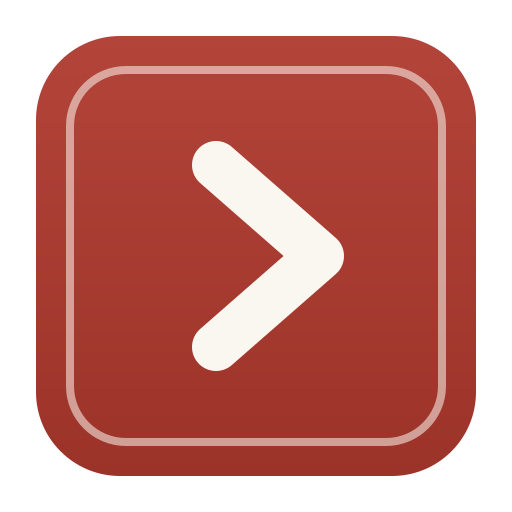
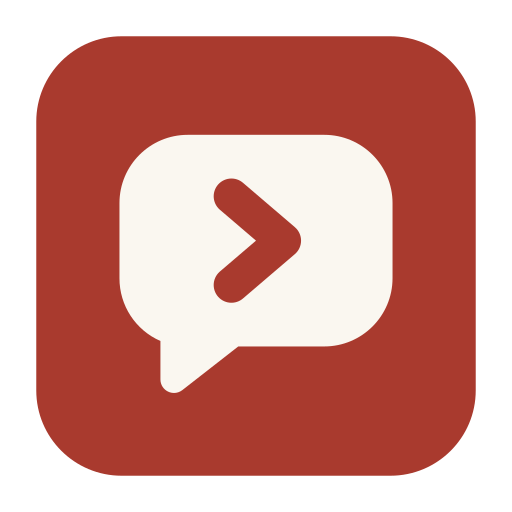
Update 40 files

diff --git a/vitube-web/src/app/install/page.tsx b/vitube-web/src/app/install/page.tsx
@@ -66,14 +66,14 @@ export default function InstallPage() {
         {/* eslint-disable-next-line @next/next/no-img-element */}
         <img src={withBase('/icons/icon-192.png')} alt="" className="h-16 w-16" />
         <div>
-          <h1 className="text-2xl font-bold">Cài vitube</h1>
+          <h1 className="text-2xl font-bold">Cài xemchua</h1>
           <p className="text-sm text-yt-sub">Xem video không quảng cáo, mở như một ứng dụng.</p>
         </div>
       </div>
 
       {standalone ? (
         <Card>
-          <p className="font-medium">Bạn đang dùng vitube dạng ứng dụng rồi 🎉</p>
+          <p className="font-medium">Bạn đang dùng xemchua dạng ứng dụng rồi 🎉</p>
           <Link href="/" className="mt-4 inline-block rounded-full bg-yt-text px-5 py-2.5 text-sm font-medium text-yt-bg">
             Về trang chủ
           </Link>
@@ -84,7 +84,7 @@ export default function InstallPage() {
             <Card tone="warn">
               <p className="font-medium">Địa chỉ này chưa có HTTPS</p>
               <p className="mt-1 text-sm">
-                Điện thoại chỉ cài được vitube dạng ứng dụng từ một địa chỉ <code>https://</code>. Mở bằng địa
+                Điện thoại chỉ cài được xemchua dạng ứng dụng từ một địa chỉ <code>https://</code>. Mở bằng địa
                 chỉ hiện tại thì chỉ tạo được dấu trang. Xem hướng dẫn dựng HTTPS trong thư mục{' '}
                 <code>vitube_PWA</code>.
               </p>
@@ -118,9 +118,9 @@ export default function InstallPage() {
                     <Steps
                       items={[
                         'Thoát ra màn hình chính, mở app Cài đặt (bánh răng ⚙).',
-                        'Bấm dòng "Đã tải về hồ sơ" ngay dưới tên tài khoản Apple ở trên cùng. (Không thấy thì vào Cài đặt chung → VPN & Quản lý thiết bị → vitube.)',
+                        'Bấm dòng "Đã tải về hồ sơ" ngay dưới tên tài khoản Apple ở trên cùng. (Không thấy thì vào Cài đặt chung → VPN & Quản lý thiết bị → xemchua.)',
                         'Bấm Cài đặt ở góc trên phải → nhập mật mã → bấm Cài đặt lần nữa → Xong.',
-                        'Biểu tượng vitube xuất hiện trên màn hình chính.',
+                        'Biểu tượng xemchua xuất hiện trên màn hình chính.',
                       ]}
                     />
                     <p className="mt-3 text-xs text-yt-sub">
@@ -154,7 +154,7 @@ export default function InstallPage() {
                         'Bấm "Tải file cài đặt", rồi chọn Cho phép.',
                         'Mở app Cài đặt — ngay trên cùng có dòng "Đã tải về hồ sơ", bấm vào.',
                         'Bấm Cài đặt (góc trên phải), nhập mật mã máy, bấm Cài đặt thêm lần nữa.',
-                        'Xong — biểu tượng vitube nằm trên màn hình chính.',
+                        'Xong — biểu tượng xemchua nằm trên màn hình chính.',
                       ]}
                     />
                   </>
@@ -181,10 +181,10 @@ export default function InstallPage() {
           {platform === 'android' && (
             <Card>
               {done ? (
-                <p className="font-medium">Đã cài! Mở vitube từ màn hình chính hoặc danh sách ứng dụng.</p>
+                <p className="font-medium">Đã cài! Mở xemchua từ màn hình chính hoặc danh sách ứng dụng.</p>
               ) : canPrompt ? (
                 <button onClick={install} className="w-full rounded-full bg-yt-red px-5 py-3 font-medium text-white">
-                  Cài vitube
+                  Cài xemchua
                 </button>
               ) : (
                 <>
@@ -222,7 +222,7 @@ export default function InstallPage() {
               <p className="mt-2 break-all rounded-lg bg-yt-chip px-3 py-2 font-mono text-sm">{origin}/install</p>
               {canPrompt && (
                 <button onClick={install} className="mt-4 rounded-full bg-yt-chip px-5 py-2.5 text-sm font-medium">
-                  Cài vitube trên máy tính này
+                  Cài xemchua trên máy tính này
                 </button>
               )}
             </Card>

diff --git a/vitube-web/src/components/Logo.tsx b/vitube-web/src/components/Logo.tsx
@@ -1,31 +1,42 @@
 import Link from 'next/link';
 
 /**
- * Dấu hiệu nhận diện của vitube — kiểu ấn triện.
+ * Dấu hiệu nhận diện của xemchua — "xem chưa?" như một câu rủ nhau trong tin nhắn.
  *
- * Khối vuông màu son có khung mảnh bên trong như con dấu đóng trên giấy, giữa là
- * mũi tên phát ghép từ hai nét (không phải tam giác đặc — tránh na ná nhãn hiệu
- * YouTube). Màu phẳng, không chuyển sắc, khớp với icon ứng dụng
- * (`vitube-desktop/build/icon.svg`).
+ * Bong bóng chat màu son, đuôi chĩa xuống bên trái, giữa là mũi tên phát ghép từ
+ * hai nét (không phải tam giác đặc — tránh na ná nhãn hiệu YouTube). Màu phẳng,
+ * khớp với icon ứng dụng (`src/app/icon.svg`, `vitube_PWA/icons/make-icons.mjs`).
+ *
+ * Chữ: "xem" màu chữ thường, "chưa" màu son — đọc liền vẫn ra tên, tách ra thì
+ * thành câu hỏi.
  */
+export const BUBBLE =
+  'M7 2.5h10a5 5 0 0 1 5 5V13a5 5 0 0 1-5 5h-6.3l-4.1 3.2c-.66.5-1.6.04-1.6-.79V17.6A5 5 0 0 1 2 13V7.5a5 5 0 0 1 5-5Z';
+export const CHEVRON = 'M10.2 7 L14 10.25 L10.2 13.5';
+
 export default function Logo() {
   return (
-    <Link href="/" className="group flex select-none items-center gap-2" aria-label="vitube trang chủ">
-      <span className="relative grid h-7 w-7 place-items-center rounded-[6px] bg-yt-red transition-transform group-hover:scale-105">
-        <span className="pointer-events-none absolute inset-[3px] rounded-[3px] border border-yt-bg/45" />
-        <svg viewBox="0 0 24 24" className="relative h-4 w-4" fill="none" aria-hidden>
-          <path
-            d="M9.5 6.5 L15.5 12 L9.5 17.5"
-            stroke="rgb(var(--yt-bg))"
-            strokeWidth="2.6"
-            strokeLinecap="round"
-            strokeLinejoin="round"
-          />
-        </svg>
-      </span>
+    <Link href="/" className="group flex select-none items-center gap-1.5" aria-label="xemchua trang chủ">
+      <svg
+        viewBox="0 0 24 24"
+        className="h-8 w-8 transition-transform duration-200 group-hover:-rotate-6 group-hover:scale-105"
+        aria-hidden
+      >
+        <path d={BUBBLE} fill="rgb(var(--yt-red))" />
+        <path
+          d={CHEVRON}
+          fill="none"
+          stroke="rgb(var(--yt-bg))"
+          strokeWidth="2.4"
+          strokeLinecap="round"
+          strokeLinejoin="round"
+        />
+      </svg>
 
-      <span className="grad-text text-[20px] font-semibold tracking-[-0.02em]">vitube</span>
-      <span className="-mt-2 text-[10px] text-yt-sub">VN</span>
+      <span className="text-[21px] font-bold leading-none tracking-[-0.03em]">
+        <span className="grad-text">xem</span>
+        <span className="text-yt-red">chưa</span>
+      </span>
     </Link>
   );
 }

diff --git a/vitube-web/src/app/api/pwa/mobileconfig/route.ts b/vitube-web/src/app/api/pwa/mobileconfig/route.ts
@@ -82,15 +82,15 @@ export async function GET(req: NextRequest) {
 ${icon ? `      <key>Icon</key>\n      <data>${icon}</data>\n` : ''}      <key>IsRemovable</key>
       <true/>
       <key>Label</key>
-      <string>vitube</string>
+      <string>xemchua</string>
       <key>Precomposed</key>
       <true/>
       <key>URL</key>
       <string>${esc(origin)}/?source=webclip</string>
       <key>PayloadDescription</key>
-      <string>Biểu tượng vitube trên màn hình chính</string>
+      <string>Biểu tượng xemchua trên màn hình chính</string>
       <key>PayloadDisplayName</key>
-      <string>vitube</string>
+      <string>xemchua</string>
       <key>PayloadIdentifier</key>
       <string>app.vitube.webclip.${esc(id)}</string>
       <key>PayloadType</key>
@@ -102,13 +102,13 @@ ${icon ? `      <key>Icon</key>\n      <data>${icon}</data>\n` : ''}      <key>I
     </dict>
   </array>
   <key>PayloadDescription</key>
-  <string>Thêm vitube vào màn hình chính. Hồ sơ này chỉ chứa một biểu tượng trỏ tới ${esc(origin)} — không cài phần mềm, không đổi cài đặt nào khác của máy. Gỡ bất cứ lúc nào trong Cài đặt → Cài đặt chung → VPN &amp; Quản lý thiết bị.</string>
+  <string>Thêm xemchua vào màn hình chính. Hồ sơ này chỉ chứa một biểu tượng trỏ tới ${esc(origin)} — không cài phần mềm, không đổi cài đặt nào khác của máy. Gỡ bất cứ lúc nào trong Cài đặt → Cài đặt chung → VPN &amp; Quản lý thiết bị.</string>
   <key>PayloadDisplayName</key>
-  <string>vitube</string>
+  <string>xemchua</string>
   <key>PayloadIdentifier</key>
   <string>app.vitube.profile.${esc(id)}</string>
   <key>PayloadOrganization</key>
-  <string>vitube</string>
+  <string>xemchua</string>
   <key>PayloadRemovalDisallowed</key>
   <false/>
   <key>PayloadType</key>

diff --git a/vitube-web/src/components/SyncServer.tsx b/vitube-web/src/components/SyncServer.tsx
@@ -62,10 +62,10 @@ export default function SyncServer() {
     <div className="space-y-3 px-4 py-4">
       {IS_STATIC ? (
         <div>
-          <p className="text-sm font-medium">Máy chủ vitube</p>
+          <p className="text-sm font-medium">Máy chủ xemchua</p>
           <p className="mt-1 text-xs leading-5 text-yt-sub">
-            Đây là bản giao diện trên GitHub Pages — không có server riêng. Điền địa chỉ HTTPS
-            của một server vitube đang chạy (máy nhà qua Tailscale Funnel / Cloudflare Tunnel,
+            Đây là bản giao diện web (GitHub/Cloudflare Pages) — không có server riêng. Điền địa chỉ HTTPS
+            của một server xemchua đang chạy (máy nhà qua Tailscale Funnel / Cloudflare Tunnel,
             hoặc VPS). Mọi thứ — feed, tìm kiếm, video, tài khoản — sẽ lấy từ server đó. Server
             phải đặt <code>VITUBE_ALLOW_ORIGINS</code> chứa địa chỉ trang này.
           </p>
@@ -75,7 +75,7 @@ export default function SyncServer() {
         <p className="text-sm font-medium">Máy chủ đồng bộ</p>
         <p className="mt-1 text-xs leading-5 text-yt-sub">
           Bỏ trống thì tài khoản và thư viện nằm trên máy này. Điền địa chỉ một server
-          vitube thì mọi máy trỏ vào đó dùng chung dữ liệu — chỉ cần đăng nhập, không
+          xemchua thì mọi máy trỏ vào đó dùng chung dữ liệu — chỉ cần đăng nhập, không
           phải cấu hình database trên từng máy. Video vẫn do máy này tự lấy nên không
           tốn băng thông của server.
         </p>

diff --git a/vitube-web/src/lib/ytdlp.ts b/vitube-web/src/lib/ytdlp.ts
@@ -182,9 +182,9 @@ export function explainYtdlpError(raw: string): string {
   */
   if (/\[biliintl\]/.test(t)) {
     if (/registered users|log ?in|sign ?in/.test(t))
-      return 'BILI_LOGIN Tập này chỉ xem được khi đã đăng nhập Bilibili. Cấu hình cookie một lần là xem được — không cần nhập mật khẩu vào vitube.';
+      return 'BILI_LOGIN Tập này chỉ xem được khi đã đăng nhập Bilibili. Cấu hình cookie một lần là xem được — không cần nhập mật khẩu vào xemchua.';
     if (/premium|vip|purchase|paid/.test(t))
-      return 'Tập này chỉ dành cho thành viên trả phí của Bilibili. vitube không mở khoá nội dung trả phí.';
+      return 'Tập này chỉ dành cho thành viên trả phí của Bilibili. xemchua không mở khoá nội dung trả phí.';
     if (/region|area|country|geo/.test(t))
       return 'Tập này bị Bilibili giới hạn theo khu vực, không xem được từ vị trí của bạn.';
     if (/timed out|timeout/.test(t))

diff --git a/vitube-web/src/app/layout.tsx b/vitube-web/src/app/layout.tsx
@@ -8,7 +8,7 @@ import { IS_STATIC, withBase } from '@/lib/base-path';
 import ServerBanner from '@/components/ServerBanner';
 
 export const metadata: Metadata = {
-  title: 'vitube — xem video không quảng cáo',
+  title: 'xemchua — xem video không quảng cáo',
   description: 'Trình xem YouTube tối giản, không quảng cáo.',
   manifest: withBase('/manifest.webmanifest'),
   /*
@@ -18,7 +18,7 @@ export const metadata: Metadata = {
     statusBarStyle 'default' (không phải 'black-translucent'): nội dung nằm DƯỚI thanh
     trạng thái, tự né tai thỏ — khỏi phải sửa từng thanh cố định theo safe-area.
   */
-  appleWebApp: { capable: true, title: 'vitube', statusBarStyle: 'default' },
+  appleWebApp: { capable: true, title: 'xemchua', statusBarStyle: 'default' },
   icons: {
     icon: [{ url: withBase('/icons/icon-192.png'), sizes: '192x192', type: 'image/png' }],
     apple: [{ url: withBase('/icons/apple-touch-icon.png'), sizes: '180x180' }],

diff --git a/vitube-desktop/main.js b/vitube-desktop/main.js
@@ -212,7 +212,7 @@ async function startServer() {
   serverProcess.stderr.on('data', (d) => process.stderr.write(`[server] ${d}`));
   serverProcess.on('exit', (code) => {
     if (code !== 0 && !app.isQuiting) {
-      dialog.showErrorBox('vitube', `Server dừng đột ngột (mã ${code}).`);
+      dialog.showErrorBox('xemchua', `Server dừng đột ngột (mã ${code}).`);
     }
   });
 
@@ -344,7 +344,7 @@ function buildJumpList(payload) {
       name,
       // Windows cắt bớt nếu quá dài, giữ 6 mục cho gọn mắt
       items: list.slice(0, 6).map((v) =>
-        task(v.title, v.channel || 'vitube', `/watch?v=${v.id}`)
+        task(v.title, v.channel || 'xemchua', `/watch?v=${v.id}`)
       ),
     });
   };
@@ -483,7 +483,7 @@ function createWindow() {
 function buildMenu() {
   const template = [
     {
-      label: 'vitube',
+      label: 'xemchua',
       submenu: [
         {
           label: 'Trang chủ',

diff --git a/vitube-web/public/offline.html b/vitube-web/public/offline.html
@@ -3,7 +3,7 @@
 <head>
 <meta charset="utf-8">
 <meta name="viewport" content="width=device-width, initial-scale=1">
-<title>vitube — mất kết nối</title>
+<title>xemchua — mất kết nối</title>
 <style>
   :root { color-scheme: light dark; }
   body { margin: 0; min-height: 100vh; display: grid; place-items: center; font-family: Roboto, Arial, system-ui, sans-serif;
@@ -18,8 +18,8 @@
 <body>
   <main>
     <img src="/icons/icon-192.png" alt="">
-    <h1>Không kết nối được tới vitube</h1>
-    <p>Điện thoại đang mất mạng, hoặc máy chủ vitube đang tắt. Kiểm tra lại rồi thử lần nữa.</p>
+    <h1>Không kết nối được tới xemchua</h1>
+    <p>Điện thoại đang mất mạng, hoặc máy chủ xemchua đang tắt. Kiểm tra lại rồi thử lần nữa.</p>
     <button onclick="location.reload()">Thử lại</button>
   </main>
 </body>

diff --git a/vitube-web/src/components/ServerBanner.tsx b/vitube-web/src/components/ServerBanner.tsx
@@ -32,9 +32,9 @@ export default function ServerBanner() {
 
   return (
     <div className="fixed inset-x-0 bottom-4 z-[100] mx-auto w-[min(92vw,560px)] rounded-xl border border-yt-border bg-yt-bg2 p-4 text-sm shadow-lg">
-      <p className="font-medium">Chưa kết nối máy chủ vitube</p>
+      <p className="font-medium">Chưa kết nối máy chủ xemchua</p>
       <p className="mt-1 text-xs leading-5 text-yt-sub">
-        Bản trên GitHub Pages chỉ có giao diện. Video, feed và tìm kiếm cần một server vitube
+        Bản web chỉ có giao diện. Video, feed và tìm kiếm cần một server xemchua
         đang chạy (máy nhà qua Tailscale Funnel / Cloudflare Tunnel, hoặc VPS).
       </p>
       <Link

diff --git a/vitube-web/src/app/debug/pip/page.tsx b/vitube-web/src/app/debug/pip/page.tsx
@@ -82,7 +82,7 @@ export default function PipDebugPage() {
       ctx.fillStyle = '#fff';
       ctx.font = 'bold 64px system-ui, sans-serif';
       ctx.textAlign = 'center';
-      ctx.fillText('vitube', c.width / 2, c.height / 2 - 10);
+      ctx.fillText('xemchua', c.width / 2, c.height / 2 - 10);
       ctx.font = '36px ui-monospace, monospace';
       ctx.fillText(new Date().toLocaleTimeString(), c.width / 2, c.height / 2 + 50);
       raf = requestAnimationFrame(draw);

diff --git a/vitube-web/src/app/manifest.ts b/vitube-web/src/app/manifest.ts
@@ -14,8 +14,8 @@ export const dynamic = 'force-static';
 export default function manifest(): MetadataRoute.Manifest {
   return {
     id: withBase('/'),
-    name: 'vitube — xem video không quảng cáo',
-    short_name: 'vitube',
+    name: 'xemchua — xem video không quảng cáo',
+    short_name: 'xemchua',
     description: 'Trình xem YouTube và Bilibili tối giản, không quảng cáo.',
     lang: 'vi',
     start_url: withBase('/?source=pwa'),

diff --git a/vitube-web/src/components/Sidebar.tsx b/vitube-web/src/components/Sidebar.tsx
@@ -137,7 +137,7 @@ export default function Sidebar({ open, mini }: { open: boolean; mini: boolean }
         />
         <hr className="my-3 border-yt-border" />
         <p className="px-3 pb-3 pt-1 text-xs leading-5 text-yt-sub">
-          vitube · dự án cá nhân.
+          xemchua · dự án cá nhân.
           <br />
           Nội dung thuộc về YouTube và các chủ sở hữu.
         </p>
